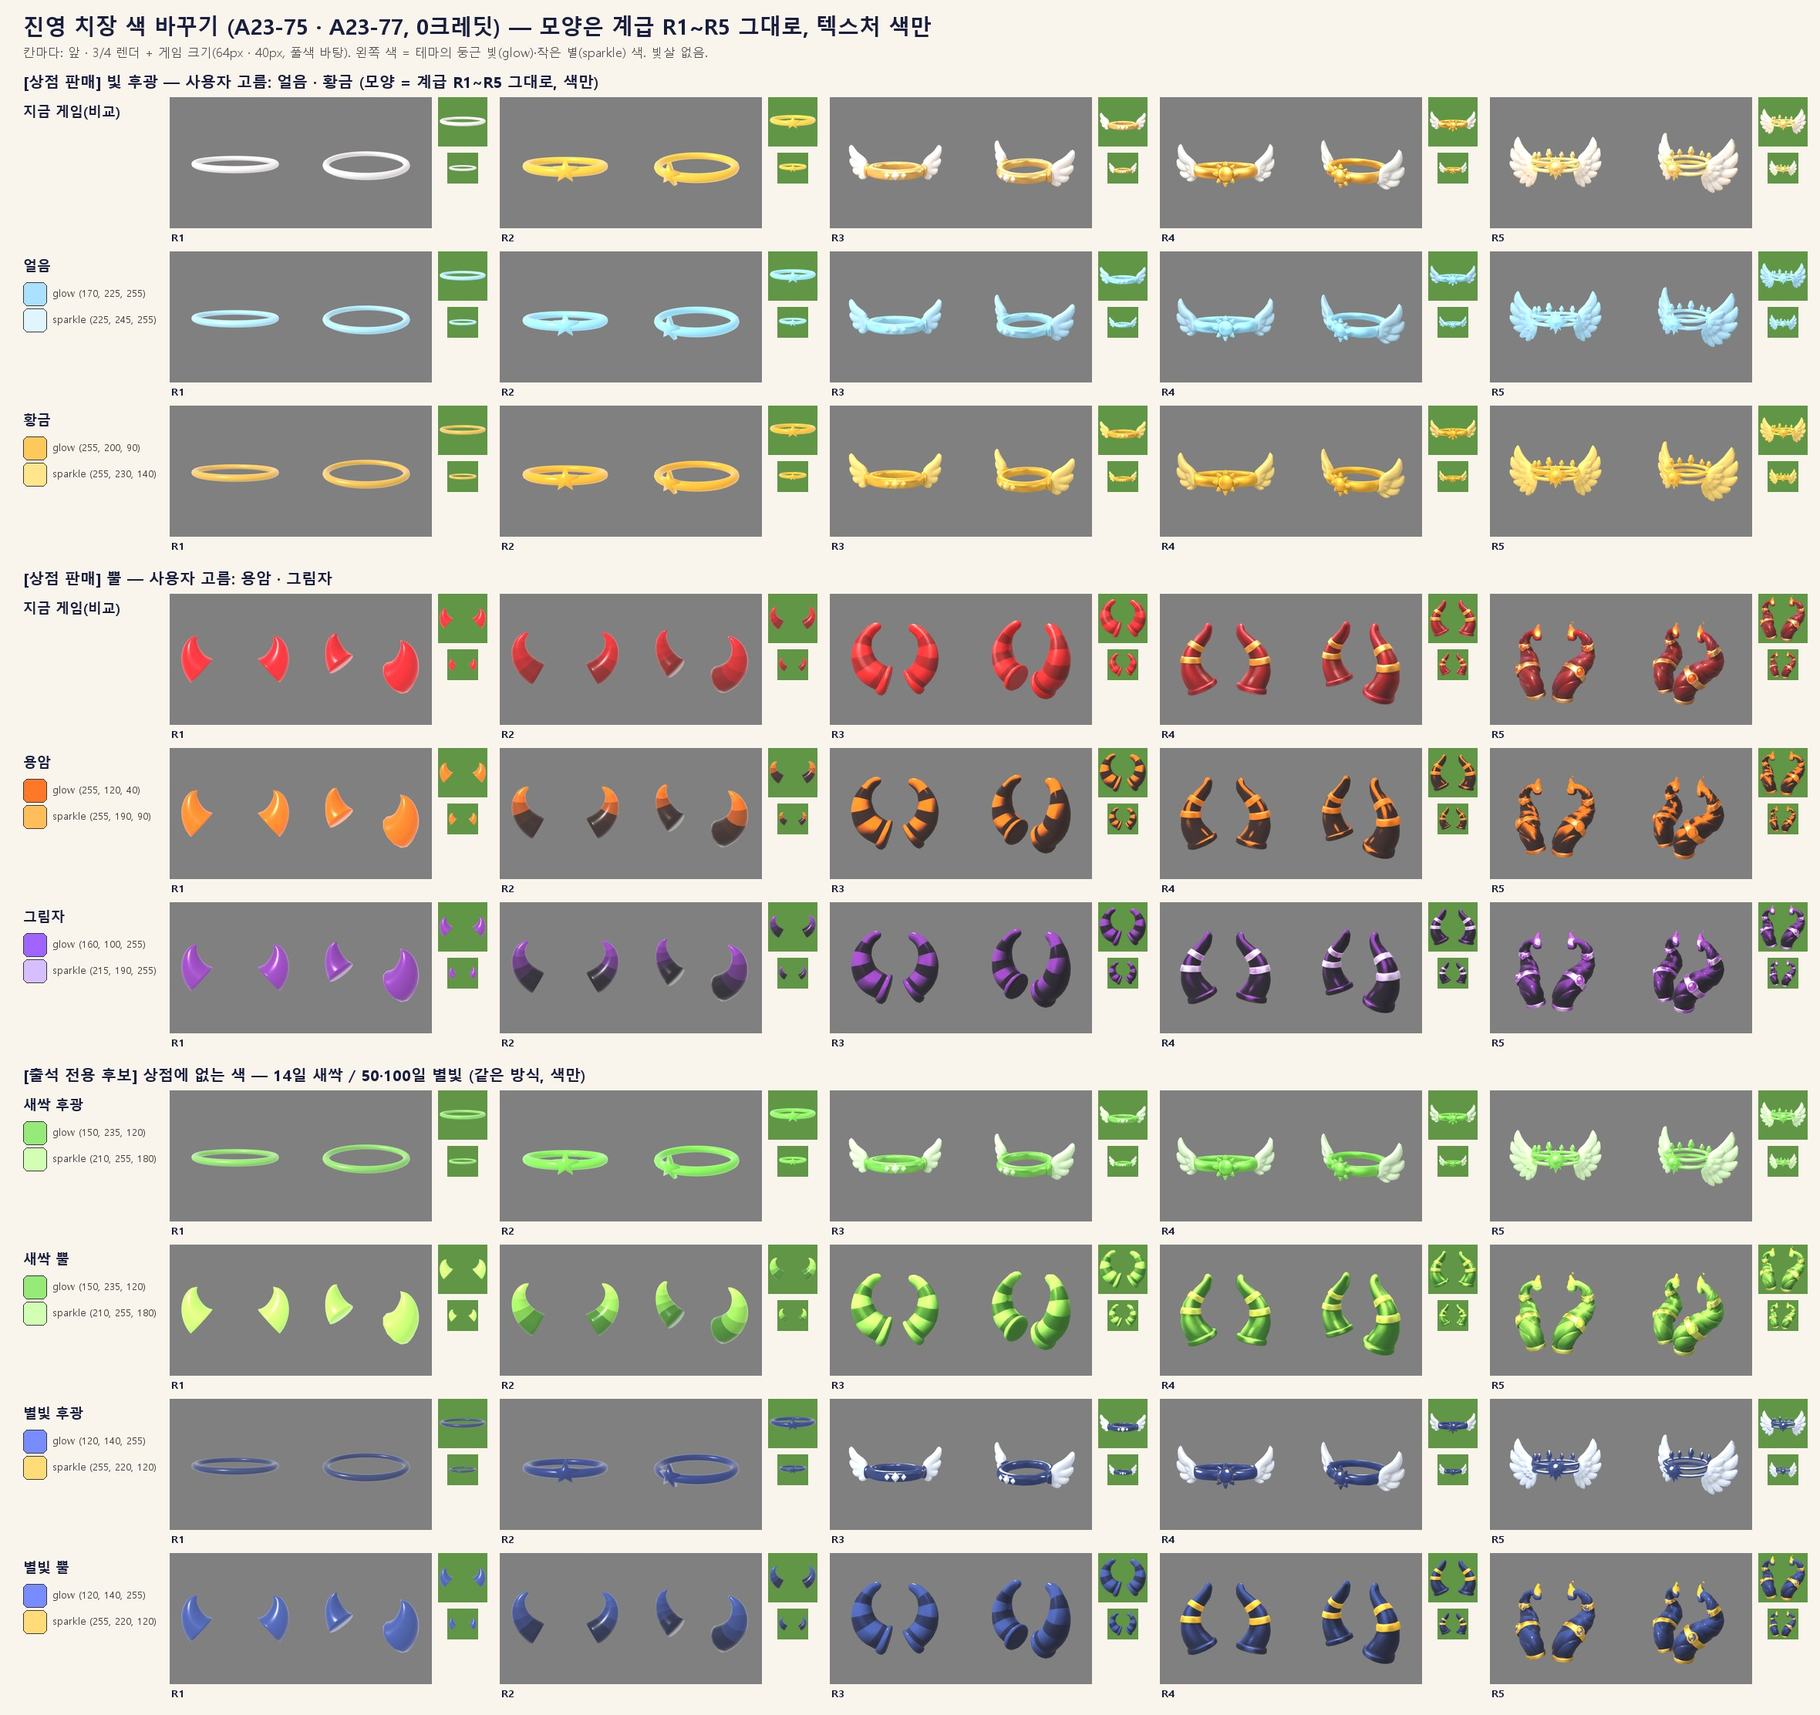
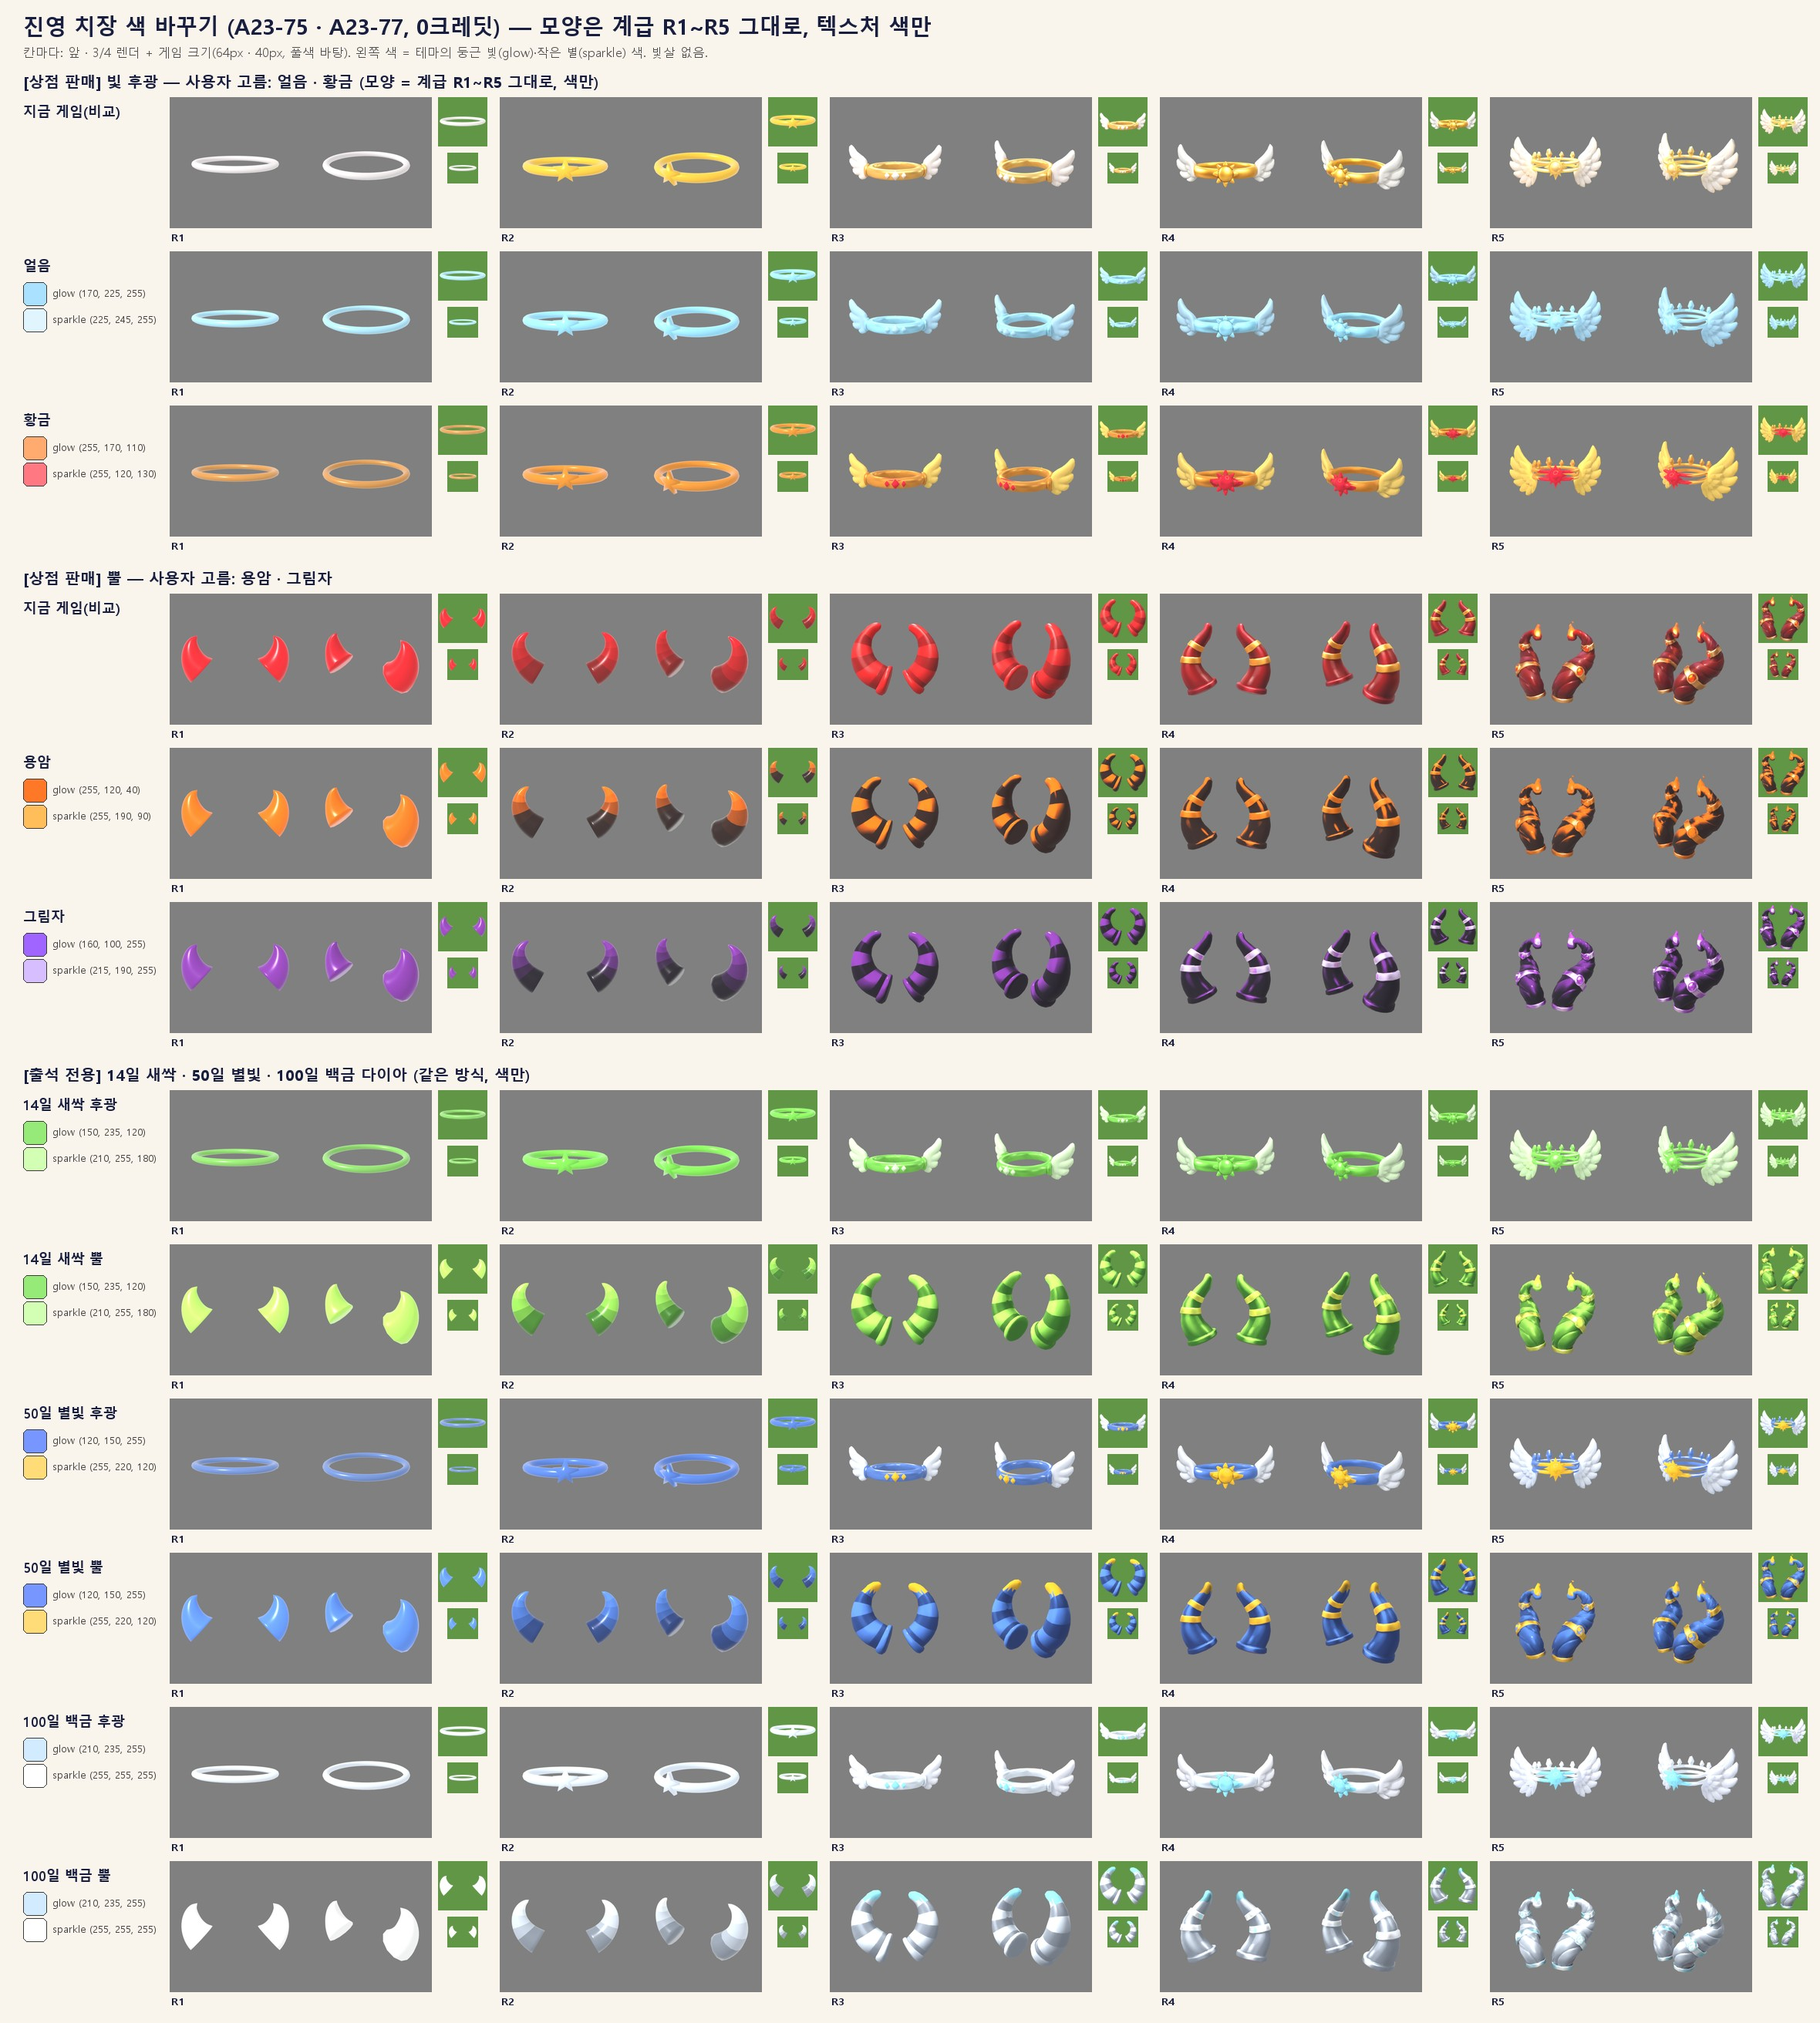
치장 색 고친 칸: 황금(호박금 + 루비 무늬) · 별빛(밝은 코발트 + 금) · 백금 다이아 추가
검수 지적 3개. 무늬만 따로 칠하려고 모양에서 앞쪽 무늬·뿔 끝을 골라 텍스처 위치로 굽는 tools/img2/acc_masks.py(Blender, 0크레딧). 시트 art/review/s2/acc_theme_fix_sheet.jpg(고친 칸) + acc_theme_recolor_sheet.jpg(7테마 전체), 색값 acc_theme_colors.json.

diff --git a/tools/img2/acc_recolor.py b/tools/img2/acc_recolor.py
@@ -28,8 +28,8 @@ THEMES = {
     # shop (A23-75, user pick 292051f)
     "HaloIce": {"kind": "Halo", "gold": ("set", 198, 0.42, 1.08), "orange": ("set", 192, 0.45, 1.05), "white": ("set", 203, 0.26, 1.0),
                 "red": ("set", 205, 0.5, 1.0), "glow": (170, 225, 255), "sparkle": (225, 245, 255)},
-    "HaloGold": {"kind": "Halo", "gold": ("set", 41, 0.9, 1.0), "orange": ("set", 36, 0.95, 1.0), "white": ("set", 45, 0.5, 1.0),
-                 "red": ("set", 0, 0.85, 1.0), "glow": (255, 200, 90), "sparkle": (255, 230, 140)},
+    "HaloGold": {"kind": "Halo", "gold": ("set", 33, 0.86, 0.93), "orange": ("set", 30, 0.88, 0.93), "white": ("set", 44, 0.55, 1.0),
+                 "red": ("set", 352, 0.85, 0.9), "emblem": ("set", 352, 0.88, 0.95), "glow": (255, 170, 110), "sparkle": (255, 120, 130)},
     "HornsLava": {"kind": "Horns", "tcurve": (0.5, 0.95), "red": ("blend", (6, 0.5, 0.17), (26, 0.98, 1.0)), "gold": ("set", 30, 1.0, 1.08),
                   "orange": ("set", 28, 1.0, 1.1), "white": ("set", 30, 0.35, 1.0), "glow": (255, 120, 40), "sparkle": (255, 190, 90)},
     "HornsShadow": {"kind": "Horns", "tcurve": (0.35, 1.0), "red": ("blend", (270, 0.6, 0.12), (283, 0.68, 0.6)), "gold": ("set", 270, 0.18, 1.0),
@@ -39,10 +39,16 @@ THEMES = {
                    "red": ("set", 100, 0.6, 1.0), "glow": (150, 235, 120), "sparkle": (210, 255, 180)},
     "HornsSprout": {"kind": "Horns", "red": ("blend", (108, 0.75, 0.42), (90, 0.6, 0.95)), "gold": ("set", 70, 0.65, 1.0),
                     "orange": ("set", 60, 0.7, 1.0), "white": ("set", 95, 0.12, 1.0), "glow": (150, 235, 120), "sparkle": (210, 255, 180)},
-    "HaloStarlight": {"kind": "Halo", "gold": ("set", 226, 0.72, 0.5), "orange": ("set", 44, 0.85, 1.0), "white": ("set", 220, 0.06, 1.0),
-                      "red": ("set", 44, 0.85, 1.0), "glow": (120, 140, 255), "sparkle": (255, 220, 120)},
-    "HornsStarlight": {"kind": "Horns", "red": ("blend", (228, 0.75, 0.2), (226, 0.62, 0.55)), "gold": ("set", 44, 0.85, 1.05),
-                       "orange": ("set", 44, 0.9, 1.05), "white": ("set", 44, 0.4, 1.0), "glow": (120, 140, 255), "sparkle": (255, 220, 120)},
+    "HaloStarlight": {"kind": "Halo", "gold": ("set", 221, 0.72, 0.88), "orange": ("set", 44, 0.85, 1.0), "white": ("set", 220, 0.05, 1.0),
+                      "red": ("set", 44, 0.85, 1.0), "emblem": ("set", 44, 0.88, 1.08), "vfloor": 0.3, "glow": (120, 150, 255), "sparkle": (255, 220, 120)},
+    "HornsStarlight": {"kind": "Horns", "red": ("blend", (222, 0.78, 0.42), (219, 0.62, 0.86)), "gold": ("set", 44, 0.85, 1.05),
+                       "orange": ("set", 44, 0.9, 1.05), "white": ("set", 44, 0.4, 1.0), "tips": ("set", 44, 0.85, 1.05),
+                       "glow": (120, 150, 255), "sparkle": (255, 220, 120)},
+    "HaloPlatinum": {"kind": "Halo", "gold": ("set", 214, 0.15, 1.1), "orange": ("set", 195, 0.4, 1.1), "white": ("set", 225, 0.04, 1.03),
+                     "red": ("set", 195, 0.4, 1.1), "emblem": ("set", 195, 0.45, 1.15), "vfloor": 0.45, "glow": (210, 235, 255), "sparkle": (255, 255, 255)},
+    "HornsPlatinum": {"kind": "Horns", "red": ("blend", (216, 0.16, 0.55), (214, 0.1, 0.98)), "gold": ("set", 222, 0.06, 1.15),
+                      "orange": ("set", 195, 0.4, 1.12), "white": ("set", 220, 0.06, 1.0), "tips": ("set", 195, 0.42, 1.18),
+                      "glow": (210, 235, 255), "sparkle": (255, 255, 255)},
 }
 
 
@@ -73,7 +79,7 @@ def to_rgb(hh, ss, vv):
     return cv2.cvtColor(x, cv2.COLOR_HSV2RGB_FULL).astype(np.float32)
 
 
-def recolor(rgb, theme, palette=False):
+def recolor(rgb, theme, palette=False, masks=None):
     th = THEMES[theme]
     h, s, v = hsv(rgb)
     w = classes(h, s, v)
@@ -109,6 +115,19 @@ def recolor(rgb, theme, palette=False):
     k = np.clip(wsum, 0, 1)
     mixed = np.where(wsum[..., None] > 1e-6, acc / np.maximum(wsum, 1e-6)[..., None], 0)
     out = rgb.astype(np.float32) * (1 - k[..., None]) + mixed * k[..., None]
+    if "vfloor" in th:  # lift dark shading of a recoloured ring (dark navy read as black at 40 px)
+        lift = th["vfloor"] * w["gold"][..., None]
+        out = out * (1 - lift) + (out * 0 + 255 * th["vfloor"] + out * (1 - th["vfloor"])) * lift
+    for key in ("emblem", "tips"):
+        rule = th.get(key)
+        if not rule or not masks or key not in masks:
+            continue
+        m = masks[key]
+        if key == "emblem":  # only the gem / emblem pixels inside the front region (not the ring around R3's gems)
+            m = m * np.maximum(w["gold"] * (1 if "R3" not in masks.get("name", "") else 0), w["white"])
+        _, H, S, Vm = rule
+        c = to_rgb(np.full_like(h, H), np.full_like(h, S), np.clip(v * Vm, 0, 1))
+        out = out * (1 - m[..., None]) + c * m[..., None]
     return np.clip(out + 0.5, 0, 255).astype(np.uint8)
 
 
@@ -128,7 +147,12 @@ def main(themes):
             src = Image.open(SRC + f"{name}_base.png").convert("RGB")
             if r >= 3:
                 src = src.resize((1024, 1024), Image.LANCZOS)
-            Image.fromarray(recolor(np.asarray(src), theme, palette=r <= 2)).save(d + f"{name}.png")
+            masks = {"name": name}
+            for mk in ("emblem", "tips"):
+                mp = SRC + f"masks/{name}_{mk}.png"
+                if r >= 3 and os.path.exists(mp):
+                    masks[mk] = np.asarray(Image.open(mp).convert("L").resize(src.size, Image.BILINEAR)).astype(np.float32) / 255
+            Image.fromarray(recolor(np.asarray(src), theme, palette=r <= 2, masks=masks)).save(d + f"{name}.png")
         meta[theme] = {"kind": th["kind"], "glow": th["glow"], "sparkle": th["sparkle"],
                        "files": [f"build/acctex/{theme}/Acc_{th['kind']}R{r}.png" for r in range(1, 6)]}
         print(theme, "ok")

diff --git a/tools/img2/acc_masks.py b/tools/img2/acc_masks.py
@@ -1,0 +1,95 @@
+"""
+Geometry masks baked into a rank accessory's UV space (white = selected), so a recolor can treat small parts on
+their own (0 credits). Blender, Cycles EMIT bake of a per-face vertex colour.
+
+  blender --background --factory-startup --python tools/img2/acc_masks.py -- <in.glb> <out_dir> [size=1024]
+
+-> <out_dir>/<name>_emblem.png : halo parts sticking out in front of the ring near the front centre (R3 gems,
+                                 R4 / R5 sun emblem). The model faces -Y (Roblox -Z).
+   <out_dir>/<name>_tips.png   : horn tips (the top 14 % of the height).
+Only meaningful for the textured R3-R5 meshes (R1 / R2 sample whole cells of the shared 64 px palette).
+"""
+import os
+import sys
+
+import bpy
+from mathutils import Vector
+
+argv = sys.argv[sys.argv.index("--") + 1:]
+IN, OUT = os.path.abspath(argv[0]), os.path.abspath(argv[1])
+SIZE = int(argv[2]) if len(argv) > 2 else 1024
+name = os.path.splitext(os.path.basename(IN))[0]
+os.makedirs(OUT, exist_ok=True)
+
+bpy.ops.wm.read_factory_settings(use_empty=True)
+bpy.ops.import_scene.gltf(filepath=IN)
+meshes = [o for o in bpy.context.scene.objects if o.type == "MESH"]
+pts = [o.matrix_world @ Vector(c) for o in meshes for c in o.bound_box]
+lo = Vector((min(p.x for p in pts), min(p.y for p in pts), min(p.z for p in pts)))
+hi = Vector((max(p.x for p in pts), max(p.y for p in pts), max(p.z for p in pts)))
+W, D, H = hi.x - lo.x, hi.y - lo.y, hi.z - lo.z
+cx = (lo.x + hi.x) / 2
+
+centres = []
+for o in meshes:
+    mw = o.matrix_world
+    for p in o.data.polygons:
+        centres.append((o, p.index, mw @ p.center))
+
+
+def ring_front_y():
+    """front surface of the ring a little off the centre line (where no emblem sits)"""
+    band = [c.y for _, _, c in centres if 0.18 * W < abs(c.x - cx) < 0.3 * W and abs(c.z - (lo.z + hi.z) / 2) < 0.35 * H]
+    return min(band) if band else lo.y
+
+
+rf = ring_front_y()
+sel_emblem = {(o.name, i) for o, i, c in centres if abs(c.x - cx) < 0.16 * W and c.y < rf - 0.012 * max(W, D)}
+sel_tips = {(o.name, i) for o, i, c in centres if c.z > hi.z - 0.14 * H}
+
+scene = bpy.context.scene
+scene.render.engine = "CYCLES"
+scene.cycles.samples = 1
+scene.cycles.device = "CPU"
+
+
+def bake(sel, label):
+    img = bpy.data.images.new(label, SIZE, SIZE, alpha=False, float_buffer=False)
+    for o in meshes:
+        me = o.data
+        attr = me.color_attributes.get("MaskCol") or me.color_attributes.new("MaskCol", "BYTE_COLOR", "CORNER")
+        for p in me.polygons:
+            v = 1.0 if (o.name, p.index) in sel else 0.0
+            for li in p.loop_indices:
+                attr.data[li].color = (v, v, v, 1.0)
+        for m in me.materials:
+            nt = m.node_tree
+            for n in list(nt.nodes):
+                if n.name.startswith("MaskBake"):
+                    nt.nodes.remove(n)
+            out = next(n for n in nt.nodes if n.type == "OUTPUT_MATERIAL")
+            vc = nt.nodes.new("ShaderNodeVertexColor")
+            vc.name = "MaskBakeVC"
+            vc.layer_name = "MaskCol"
+            em = nt.nodes.new("ShaderNodeEmission")
+            em.name = "MaskBakeEm"
+            nt.links.new(vc.outputs["Color"], em.inputs["Color"])
+            nt.links.new(em.outputs["Emission"], out.inputs["Surface"])
+            tex = nt.nodes.new("ShaderNodeTexImage")
+            tex.name = "MaskBakeImg"
+            tex.image = img
+            nt.nodes.active = tex
+    bpy.ops.object.select_all(action="DESELECT")
+    for o in meshes:
+        o.select_set(True)
+    bpy.context.view_layer.objects.active = meshes[0]
+    scene.render.bake.margin = 6
+    bpy.ops.object.bake(type="EMIT", margin=6)
+    img.filepath_raw = os.path.join(OUT, f"{name}_{label}.png")
+    img.file_format = "PNG"
+    img.save()
+
+
+bake(sel_emblem, "emblem")
+bake(sel_tips, "tips")
+print("[acc_masks] ok", name, "emblem faces", len(sel_emblem), "tip faces", len(sel_tips), "ring front y", round(rf, 4), flush=True)

diff --git a/tools/img2/acc_theme_sheet.py b/tools/img2/acc_theme_sheet.py
@@ -14,12 +14,19 @@ R = ROOT + "build/acctex/r/"
 META = json.load(open(ROOT + "build/acctex/themes.json"))
 F = lambda s, b=False: ImageFont.truetype("C:/Windows/Fonts/malgunbd.ttf" if b else "C:/Windows/Fonts/malgun.ttf", s)
 NAVY, BG = (24, 30, 64), (250, 245, 236)
-SECTIONS = [
+FULL = [
     ("[상점 판매] 빛 후광 — 사용자 고름: 얼음 · 황금 (모양 = 계급 R1~R5 그대로, 색만)", [("Now", "Halo", "지금 게임(비교)"), ("HaloIce", "Halo", "얼음"), ("HaloGold", "Halo", "황금")]),
     ("[상점 판매] 뿔 — 사용자 고름: 용암 · 그림자", [("Now", "Horns", "지금 게임(비교)"), ("HornsLava", "Horns", "용암"), ("HornsShadow", "Horns", "그림자")]),
-    ("[출석 전용 후보] 상점에 없는 색 — 14일 새싹 / 50·100일 별빛 (같은 방식, 색만)", [("HaloSprout", "Halo", "새싹 후광"), ("HornsSprout", "Horns", "새싹 뿔"),
-                                                                    ("HaloStarlight", "Halo", "별빛 후광"), ("HornsStarlight", "Horns", "별빛 뿔")]),
+    ("[출석 전용] 14일 새싹 · 50일 별빛 · 100일 백금 다이아 (같은 방식, 색만)", [("HaloSprout", "Halo", "14일 새싹 후광"), ("HornsSprout", "Horns", "14일 새싹 뿔"),
+                                                                    ("HaloStarlight", "Halo", "50일 별빛 후광"), ("HornsStarlight", "Horns", "50일 별빛 뿔"),
+                                                                    ("HaloPlatinum", "Halo", "100일 백금 후광"), ("HornsPlatinum", "Horns", "100일 백금 뿔")]),
 ]
+FIX = [
+    ("고친 칸 ① 황금 후광: 호박금 고리 + 무늬 루비(R3 보석·R4/R5 해 문양) + 금 날개 / ② 별빛: 밝은 코발트 + 금 무늬 / ③ 백금: 은백 + 하늘빛 다이아 무늬",
+     [("Now", "Halo", "지금 게임(비교)"), ("HaloGold", "Halo", "① 황금"), ("HaloStarlight", "Halo", "② 50일 별빛"), ("HaloPlatinum", "Halo", "③ 100일 백금")]),
+    ("뿔: ② 별빛(코발트 + 금테·금 끝) / ③ 백금(은빛 + 다이아 끝)", [("Now", "Horns", "지금 게임(비교)"), ("HornsStarlight", "Horns", "② 50일 별빛"), ("HornsPlatinum", "Horns", "③ 100일 백금")]),
+]
+SECTIONS = FIX if "--fix" in sys.argv else FULL
 V = 170          # render cell
 G1, G2 = 64, 40  # game-size previews
 CELL = 2 * V + G1 + 14
